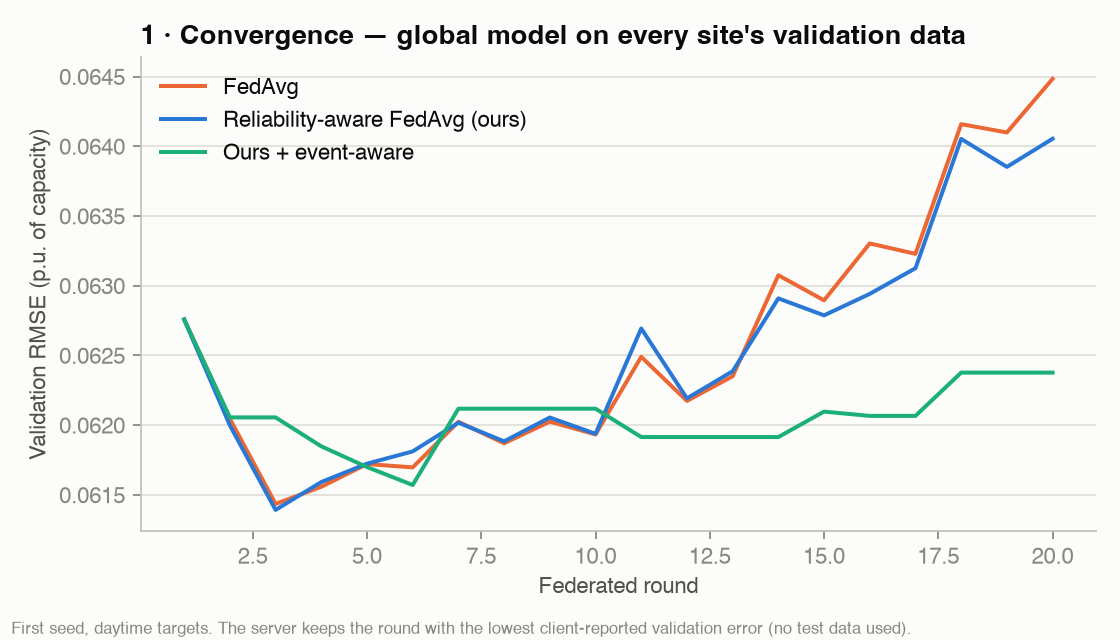
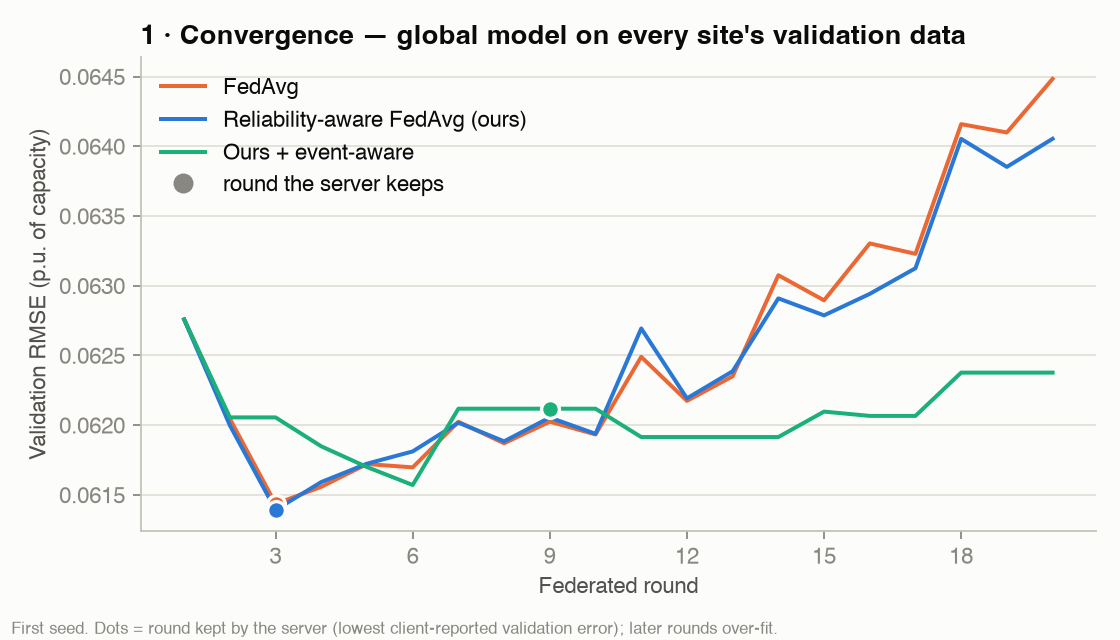
Final polish: fair centralized benchmark at scale, visible default fault, convergence markers

diff --git a/src/visualization/plots.py b/src/visualization/plots.py
@@ -14,6 +14,7 @@ matplotlib.use("Agg")
 import matplotlib.pyplot as plt  # noqa: E402
 import numpy as np  # noqa: E402
 import pandas as pd  # noqa: E402
+from matplotlib.ticker import MaxNLocator  # noqa: E402
 from scipy.stats import norm  # noqa: E402
 
 INK, INK2, MUTED, GRID, AXIS = "#0b0b0b", "#52514e", "#898781", "#e1e0d9", "#c3c2b7"
@@ -74,12 +75,18 @@ def plot_convergence(out):
             continue
         c, label = METHOD[m]
         ax.plot(d["round"], np.sqrt(d["val_mse_healthy"]), color=c, lw=1.8, label=label)
+        kept = int(d.loc[d["val_reported"].idxmin(), "round"]) - 1   # model the server keeps
+        if kept >= 1:
+            ax.plot(kept, np.sqrt(d.loc[d["round"] == kept, "val_mse_healthy"].iloc[0]), "o",
+                    color=c, ms=8, mec=SURFACE, mew=1.5, zorder=3)
+    ax.plot([], [], "o", color=MUTED, ms=8, label="round the server keeps")
     ax.set(xlabel="Federated round", ylabel="Validation RMSE (p.u. of capacity)",
            title="1 · Convergence — global model on every site's validation data")
+    ax.xaxis.set_major_locator(MaxNLocator(integer=True))
     _style(ax)
     ax.legend()
-    _save(fig, out, "01_convergence.png", "First seed, daytime targets. The server keeps the round "
-          "with the lowest client-reported validation error (no test data used).")
+    _save(fig, out, "01_convergence.png", "First seed. Dots = round kept by the server (lowest "
+          "client-reported validation error); later rounds over-fit.")
 
 
 def plot_actual_vs_pred(out, cfg):
@@ -106,7 +113,7 @@ def plot_actual_vs_pred(out, cfg):
     ticks = [i for i, t in enumerate(win.index) if t.hour == 12 and t.minute == 0]
     ax.set_xticks(ticks, [win.index[i].strftime("%d %b") for i in ticks])
     ax.set(ylabel="Node PV power (MW)",
-           title=f"2 · Actual vs forecast at the aggregation node — example test days")
+           title="2 · Actual vs forecast at the aggregation node — example test days")
     _style(ax)
     ax.legend(loc="upper left")
     _save(fig, out, "02_actual_vs_predicted.png",
@@ -169,6 +176,7 @@ def _site_lines(ax, d, value, faulty):
         y = sum(x[0] for x in grp) / len(grp)
         ax.annotate(txt, (grp[0][3], y), xytext=(4, 0), textcoords="offset points",
                     fontsize=8, color=FAULT if bad else INK2, va="center")
+    ax.xaxis.set_major_locator(MaxNLocator(integer=True))
 
 
 def _fault_scenario(out, cfg):

diff --git a/dashboard.py b/dashboard.py
@@ -15,7 +15,7 @@ import pandas as pd  # noqa: E402
 import streamlit as st  # noqa: E402
 
 from src.data.adapter import load_config  # noqa: E402
-from src.visualization.plots import (AXIS, FAULT, GRID, HEALTHY_GREYS, INK, INK2, METHOD,  # noqa: E402
+from src.visualization.plots import (AXIS, FAULT, GRID, HEALTHY_GREYS, INK, METHOD,  # noqa: E402
                                      MUTED, SURFACE, _style)
 
 OURS = "reliability_fedavg_event"
@@ -191,6 +191,7 @@ with b1:
                 lw=2 if bad else 1.2, label=f"{site}" + (" (faulty)" if bad else ""))
     ax.axhline(cfg["reliability"]["quarantine_below"], color=AXIS, lw=0.8)
     ax.set(ylim=(-0.03, 1.08), xlabel="round", title="Client reliability (trust)")
+    ax.xaxis.set_major_locator(matplotlib.ticker.MaxNLocator(integer=True))
     _style(ax)
     ax.legend(fontsize=7, ncol=2)
     st.pyplot(f, clear_figure=True)
@@ -218,6 +219,7 @@ with b3:
             ax.plot(g["round"], w, color=FAULT if bad else HEALTHY_GREYS[j % 4], lw=1.2,
                     marker="o", ms=3, label=site)
         ax.set(xlabel="round", title=ttl)
+        ax.xaxis.set_major_locator(matplotlib.ticker.MaxNLocator(integer=True))
         _style(ax)
     axes[0].set_ylabel("aggregation weight")
     axes[1].legend(fontsize=7)

diff --git a/src/evaluation/report.py b/src/evaluation/report.py
@@ -81,6 +81,8 @@ def write_results_md(out, cfg):
         "MAE": [_pm(a, b) for a, b in zip(main.global_mae_mean, main.global_mae_std)],
         "Worst-site RMSE": [_pm(a, b) for a, b in zip(main.worst_site_rmse_mean,
                                                       main.worst_site_rmse_std)],
+        "Rounds to converge": [f"{v:.1f}" if pd.notna(v) else "–"
+                               for v in main.rounds_to_converge_mean],
         "Comm. (MB)": [f"{v:.2f}" if pd.notna(v) else "–" for v in main.total_comm_mb_mean],
         "Fault damage (%)": [_pm(a, b, 1) for a, b in zip(main.damage_pct_mean, main.damage_pct_std)],
         "Dropout degradation (%)": [_pm(a, b, 1) for a, b in
@@ -139,6 +141,8 @@ Raw data stays at each site; no secure aggregation or differential privacy is im
 
 *Fault damage* = healthy-site RMSE increase vs. the same sites without faults, averaged over all
 fault scenarios. *Dropout degradation* = RMSE increase vs. no dropout, averaged over dropout rates.
+*Rounds to converge* = first federated round whose global model is within 2% of its best
+validation error.
 
 ## 2. Faulty-client scenarios — healthy-site RMSE increase (%)
 {_md(f)}

diff --git a/src/models/forecasting_model.py b/src/models/forecasting_model.py
@@ -82,12 +82,18 @@ def mse_on(model, split):
     return float(np.mean((pred[m] - split.y[m]) ** 2))
 
 
-def fit_with_best_val(model, train, val, mcfg, seed, epochs=None):
-    """Train for `epochs`, keep the checkpoint with the lowest validation MSE."""
+def fit_with_best_val(model, train, val, mcfg, seed, epochs=None, frac=1.0):
+    """Train for `epochs`, keep the checkpoint with the lowest validation MSE.
+    frac < 1: each epoch trains on a random share of the rows (pooled benchmark only)."""
     epochs = epochs or mcfg["epochs"]
     best, best_state, history = np.inf, None, []
+    rng = np.random.default_rng(seed)
     for ep in range(epochs):
-        tr = train_epochs(model, train.X, train.y_model, 1, mcfg, seed + ep)
+        X, y = train.X, train.y_model
+        if frac < 1.0:
+            take = rng.choice(len(y), max(1, int(len(y) * frac)), replace=False)
+            X, y = X[take], y[take]
+        tr = train_epochs(model, X, y, 1, mcfg, seed + ep)
         v = mse_on(model, val)
         history.append({"epoch": ep + 1, "train_mse": tr, "val_mse": v})
         if v < best:

diff --git a/src/evaluation/experiments.py b/src/evaluation/experiments.py
@@ -102,7 +102,12 @@ def run_centralized(clients, cfg, seed):
     train = _pool([_site_data(c).train for c in clients])
     val = _pool([_site_data(c).val for c in clients])
     model = build_model(train.X.shape[1], cfg["model"], seed)
-    model, hist = fit_with_best_val(model, train, val, cfg["model"], seed)
+    # Virtual sites share one weather record, so the pool repeats every weather day once per
+    # site and one epoch over 100 sites = 25 passes over the same days (over-training). Each
+    # epoch therefore uses a random 4/N share of the rows: same budget and validation checks
+    # as with 4 sites, identical results at 4 sites. Real multi-site data keeps full epochs.
+    frac = 1.0 if cfg["data"].get("site_col") else min(1.0, 4 / len(clients))
+    model, hist = fit_with_best_val(model, train, val, cfg["model"], seed, frac=frac)
     return Result("centralized", {c.params.name: predict(model, c.test) for c in clients}, hist,
                   val_preds={c.params.name: predict(model, c.val) for c in clients})
 

diff --git a/run_simulation.py b/run_simulation.py
@@ -34,7 +34,7 @@ def parse_args():
                     help="make this share of sites faulty (picked at random with the seed)")
     ap.add_argument("--fault-severity", type=float, default=1.0,
                     help="0 = no fault, 1 = config values, 2 = twice as strong")
-    ap.add_argument("--fault-type", default="feature_corruption",
+    ap.add_argument("--fault-type", default="stale",
                     choices=["feature_corruption", "target_noise", "stale", "bias"])
     ap.add_argument("--fault-start", type=int, default=None,
                     help="round at which the fault appears (override faults.start_round)")

diff --git a/audit.py b/audit.py
@@ -15,8 +15,8 @@ from scipy.stats import norm
 
 from run_simulation import run_method
 from src.data.adapter import load_config, load_dataset
-from src.data.preprocessing import (TEST, TRAIN, VAL, add_derived_features, make_windows,
-                                    prepare_clients, segment_labels)
+from src.data.preprocessing import (add_derived_features, make_windows, prepare_clients,
+                                    segment_labels)
 from src.data.pv_model import pv_power_pu
 from src.data.virtual_sites import (apply_fault, generate_virtual_sites, measured_pu,
                                     sample_site_params)

diff --git a/src/data/preprocessing.py b/src/data/preprocessing.py
@@ -219,5 +219,5 @@ if __name__ == "__main__":
         tr, va, te = (set(pd.to_datetime(x.time)) for x in (c.train, c.val, c.test))
         assert not (tr & va) and not (tr & te) and not (va & te)
     months = sorted(pd.to_datetime(clients[0].test.time).month.unique())
-    print(f"\nOK: no train/val/test overlap; no window crosses a split boundary.")
+    print("\nOK: no train/val/test overlap; no window crosses a split boundary.")
     print(f"Test covers months: {months}")

diff --git a/outputs/RESULTS.md b/outputs/RESULTS.md
@@ -10,18 +10,20 @@ irradiance · sites and faults SIMULATED · demand SYNTHETIC · costs ASSUMED.
 Raw data stays at each site; no secure aggregation or differential privacy is implemented.
 
 ## 1. Forecasting (no faults)
-| Method | RMSE | MAE | Worst-site RMSE | Comm. (MB) | Fault damage (%) | Dropout degradation (%) |
-|---|---|---|---|---|---|---|
-| Persistence | 0.0908 ± 0.0015 | 0.0673 ± 0.0011 | 0.0941 ± 0.0016 | – | – | – |
-| Smart persistence | 0.0735 ± 0.0011 | 0.0362 ± 0.0007 | 0.0761 ± 0.0013 | – | – | – |
-| Local-only | 0.0666 ± 0.0025 | 0.0386 ± 0.0034 | 0.0712 ± 0.0049 | – | – | – |
-| Centralized (pooled data) | 0.0643 ± 0.0008 | 0.0367 ± 0.0012 | 0.0667 ± 0.0015 | – | – | – |
-| FedAvg | 0.0642 ± 0.0013 | 0.0360 ± 0.0015 | 0.0666 ± 0.0016 | 5.08 | 2.4 ± 3.7 | 0.5 ± 0.8 |
-| **Reliability-aware FedAvg (ours)** | 0.0641 ± 0.0013 | 0.0366 ± 0.0019 | 0.0666 ± 0.0017 | 5.08 | 0.1 ± 0.9 | 0.1 ± 0.8 |
-| **Ours + event-aware participation** | 0.0648 ± 0.0013 | 0.0372 ± 0.0013 | 0.0669 ± 0.0013 | 2.55 | -0.1 ± 1.8 | -0.5 ± 1.8 |
+| Method | RMSE | MAE | Worst-site RMSE | Rounds to converge | Comm. (MB) | Fault damage (%) | Dropout degradation (%) |
+|---|---|---|---|---|---|---|---|
+| Persistence | 0.0908 ± 0.0015 | 0.0673 ± 0.0011 | 0.0941 ± 0.0016 | – | – | – | – |
+| Smart persistence | 0.0735 ± 0.0011 | 0.0362 ± 0.0007 | 0.0761 ± 0.0013 | – | – | – | – |
+| Local-only | 0.0666 ± 0.0025 | 0.0386 ± 0.0034 | 0.0712 ± 0.0049 | – | – | – | – |
+| Centralized (pooled data) | 0.0643 ± 0.0008 | 0.0367 ± 0.0012 | 0.0667 ± 0.0015 | – | – | – | – |
+| FedAvg | 0.0642 ± 0.0013 | 0.0360 ± 0.0015 | 0.0666 ± 0.0016 | 2.6 | 5.08 | 2.4 ± 3.7 | 0.5 ± 0.8 |
+| **Reliability-aware FedAvg (ours)** | 0.0641 ± 0.0013 | 0.0366 ± 0.0019 | 0.0666 ± 0.0017 | 2.8 | 5.08 | 0.1 ± 0.9 | 0.1 ± 0.8 |
+| **Ours + event-aware participation** | 0.0648 ± 0.0013 | 0.0372 ± 0.0013 | 0.0669 ± 0.0013 | 3.4 | 2.55 | -0.1 ± 1.8 | -0.5 ± 1.8 |
 
 *Fault damage* = healthy-site RMSE increase vs. the same sites without faults, averaged over all
 fault scenarios. *Dropout degradation* = RMSE increase vs. no dropout, averaged over dropout rates.
+*Rounds to converge* = first federated round whose global model is within 2% of its best
+validation error.
 
 ## 2. Faulty-client scenarios — healthy-site RMSE increase (%)
 | Scenario | FedAvg | Reliability-aware FedAvg (ours) | Ours + event-aware participation | Ours beats FedAvg (runs) |

diff --git a/README.md b/README.md
@@ -43,7 +43,7 @@ python -m streamlit run dashboard.py   # demo dashboard in the browser (Ctrl+C t
 | `python audit.py` | 21 correctness checks: leakage, maths, reserve causality and calibration, faults, determinism, real-data path — run before every push |
 | `python build_dashboard.py` + `python -m streamlit run dashboard.py` | dashboard: NORMAL / FAULTY CLIENT / CLIENT DROPOUT / WEATHER-REGIME SHIFT |
 
-Options: `--fault-type feature_corruption | target_noise | stale | bias`, `--fault-severity 2`,
+Options: `--fault-type stale (default) | target_noise | bias | feature_corruption`, `--fault-severity 2`,
 `--faulty-frac 0.2` (random 20% of sites), `--seed`, `--rounds`. Sites are lettered A, B, C…
 All tunable numbers live in `config.yaml`.
 
